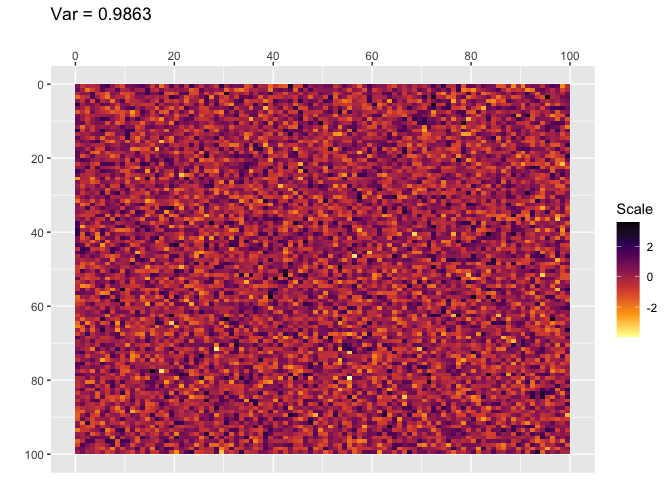
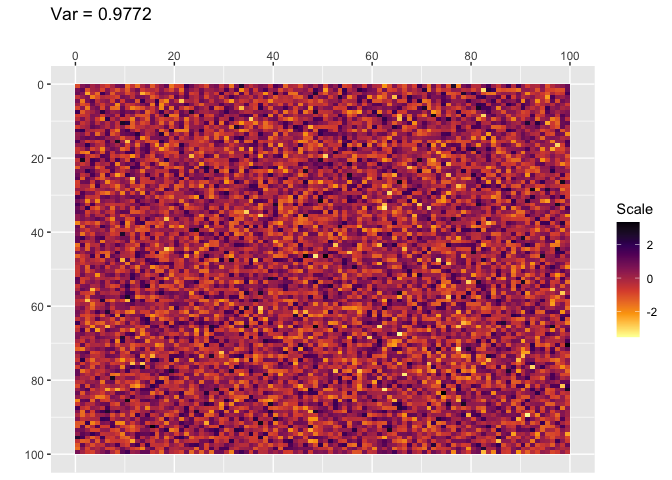
Initial commit

diff --git a/README.md b/README.md
@@ -11,6 +11,9 @@ coverage](https://codecov.io/gh/C-Juliette/randomfields/branch/main/graph/badge.
 [![test-coverage](https://github.com/C-Juliette/randomfields/actions/workflows/test-coverage.yaml/badge.svg)](https://github.com/C-Juliette/randomfields/actions/workflows/test-coverage.yaml)
 <!-- badges: end -->
 
+Shiny App associée :
+<https://juliette-chiapello.shinyapps.io/RandomFields/>
+
 – *English version below* –
 
 Le principe est de générer des champs aléatoires en 2D, puis de calculer
@@ -89,16 +92,16 @@ corrélation des points selon la direction (0, 1)).
 actual_correlation(my_random_field, c(0,1)) |> 
   head(10)
 #>    Distance_pixels Distance_km Empirical_covariance Empirical_correlation
-#> 1                0           0          0.986281138           1.000000000
-#> 2                1           1         -0.019146179          -0.019420788
-#> 3                2           2         -0.012692623          -0.012865903
-#> 4                3           3          0.003849425           0.003902321
-#> 5                4           4         -0.007143487          -0.007234349
-#> 6                5           5          0.007290393           0.007374268
-#> 7                6           6          0.005337790           0.005410947
-#> 8                7           7          0.009107937           0.009238173
-#> 9                8           8          0.002470945           0.002510341
-#> 10               9           9         -0.008223944          -0.008345497
+#> 1                0           0         0.9771622050          1.0000000000
+#> 2                1           1        -0.0003432377         -0.0003509797
+#> 3                2           2        -0.0018308075         -0.0018724473
+#> 4                3           3        -0.0008582630         -0.0008771434
+#> 5                4           4        -0.0138465606         -0.0141468923
+#> 6                5           5         0.0082628227          0.0084230526
+#> 7                6           6        -0.0012158138         -0.0012376256
+#> 8                7           7        -0.0020800520         -0.0021144567
+#> 9                8           8        -0.0011162387         -0.0011322669
+#> 10               9           9        -0.0142358961         -0.0144551643
 ```
 
 La corrélation est nulle (aux fluctuations statistiques près). La
@@ -132,16 +135,16 @@ Cela se retranscrit au niveau des corrélations :
 actual_correlation(structured_field, c(0, 1)) |> 
   head(10)
 #>    Distance_pixels Distance_km Empirical_covariance Empirical_correlation
-#> 1                0           0          0.005314522             1.0000000
-#> 2                1           1          0.004867543             0.9144647
-#> 3                2           2          0.004460263             0.8343929
-#> 4                3           3          0.004065093             0.7576574
-#> 5                4           4          0.003631647             0.6735605
-#> 6                5           5          0.003196727             0.5907091
-#> 7                6           6          0.002751031             0.5061640
-#> 8                7           7          0.002345434             0.4302699
-#> 9                8           8          0.001919511             0.3522825
-#> 10               9           9          0.001470961             0.2698426
+#> 1                0           0          0.005863657             1.0000000
+#> 2                1           1          0.005441513             0.9261279
+#> 3                2           2          0.005031841             0.8540028
+#> 4                3           3          0.004584651             0.7763849
+#> 5                4           4          0.004097430             0.6925498
+#> 6                5           5          0.003649708             0.6150813
+#> 7                6           6          0.003142876             0.5285943
+#> 8                7           7          0.002607207             0.4371363
+#> 9                8           8          0.002112413             0.3535144
+#> 10               9           9          0.001621311             0.2700478
 ```
 
 Les variables aléatoires sont corrélées et leur corrélations diminue
